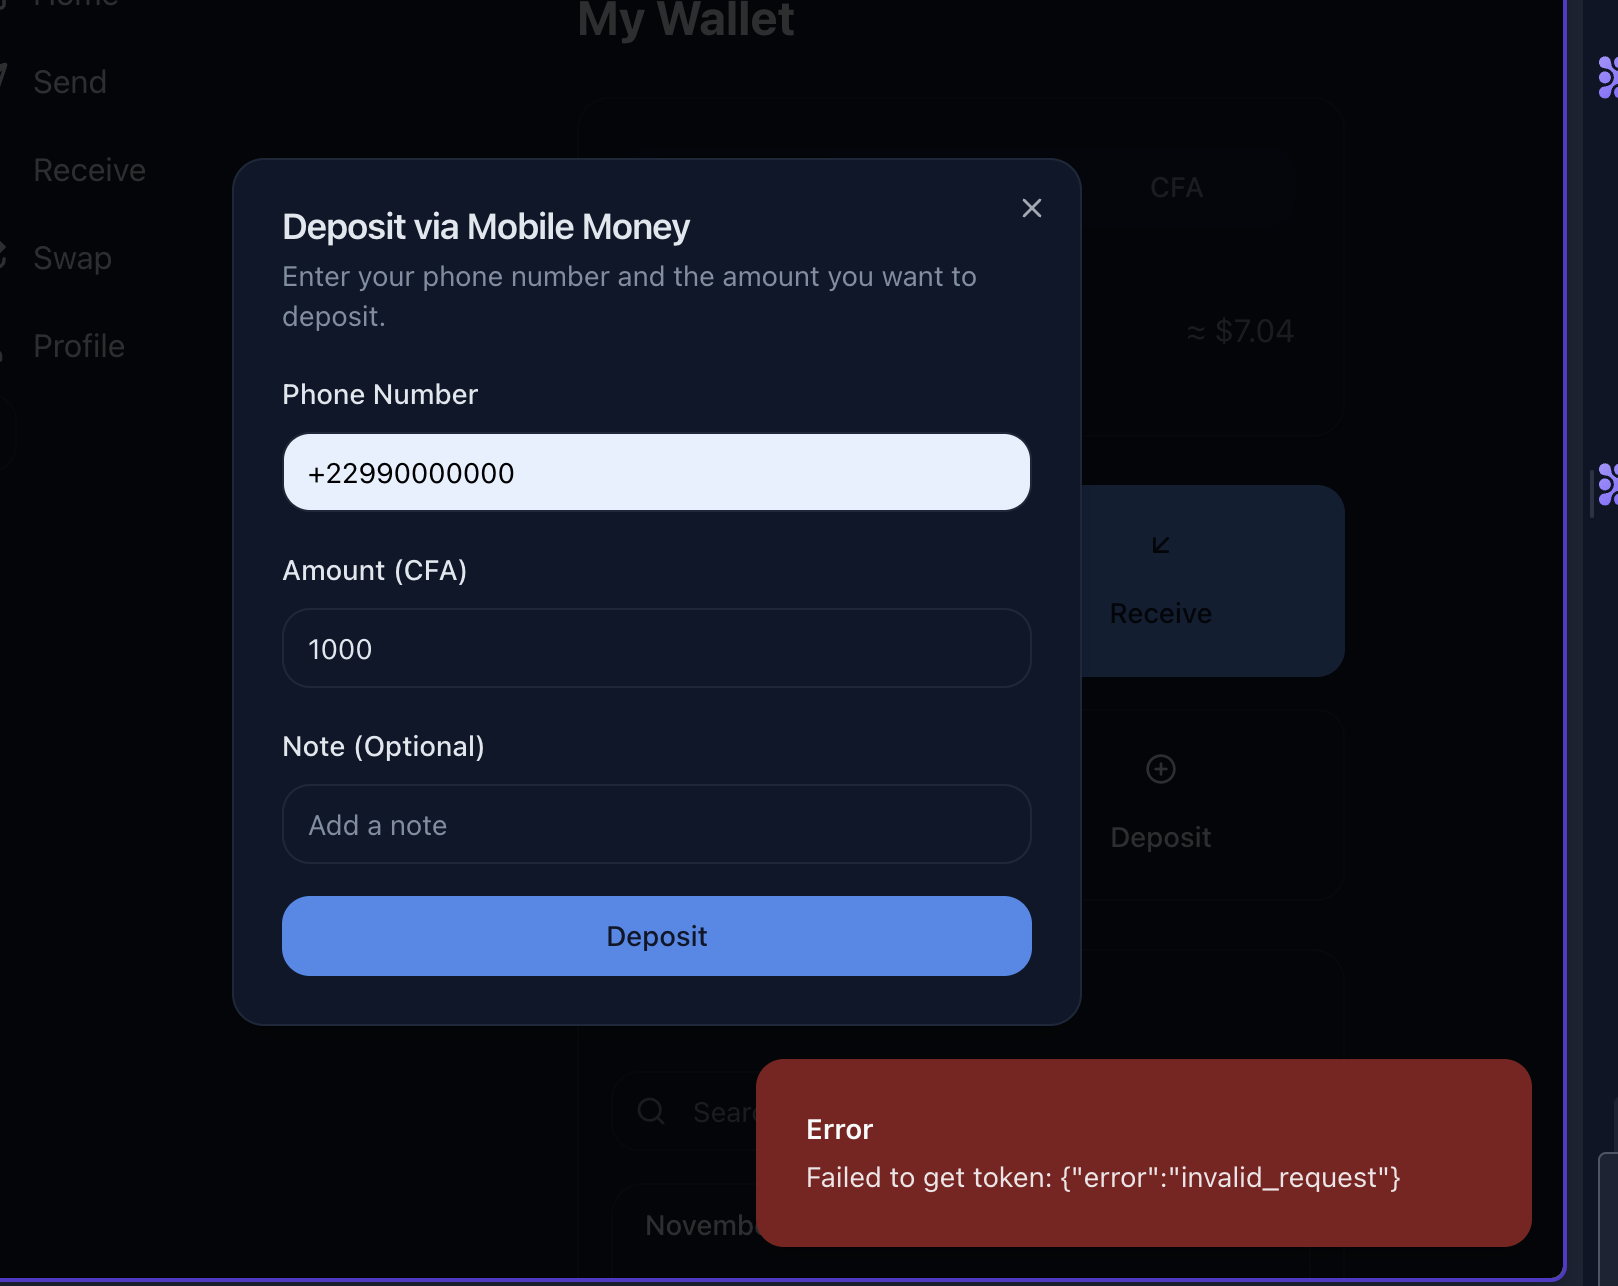
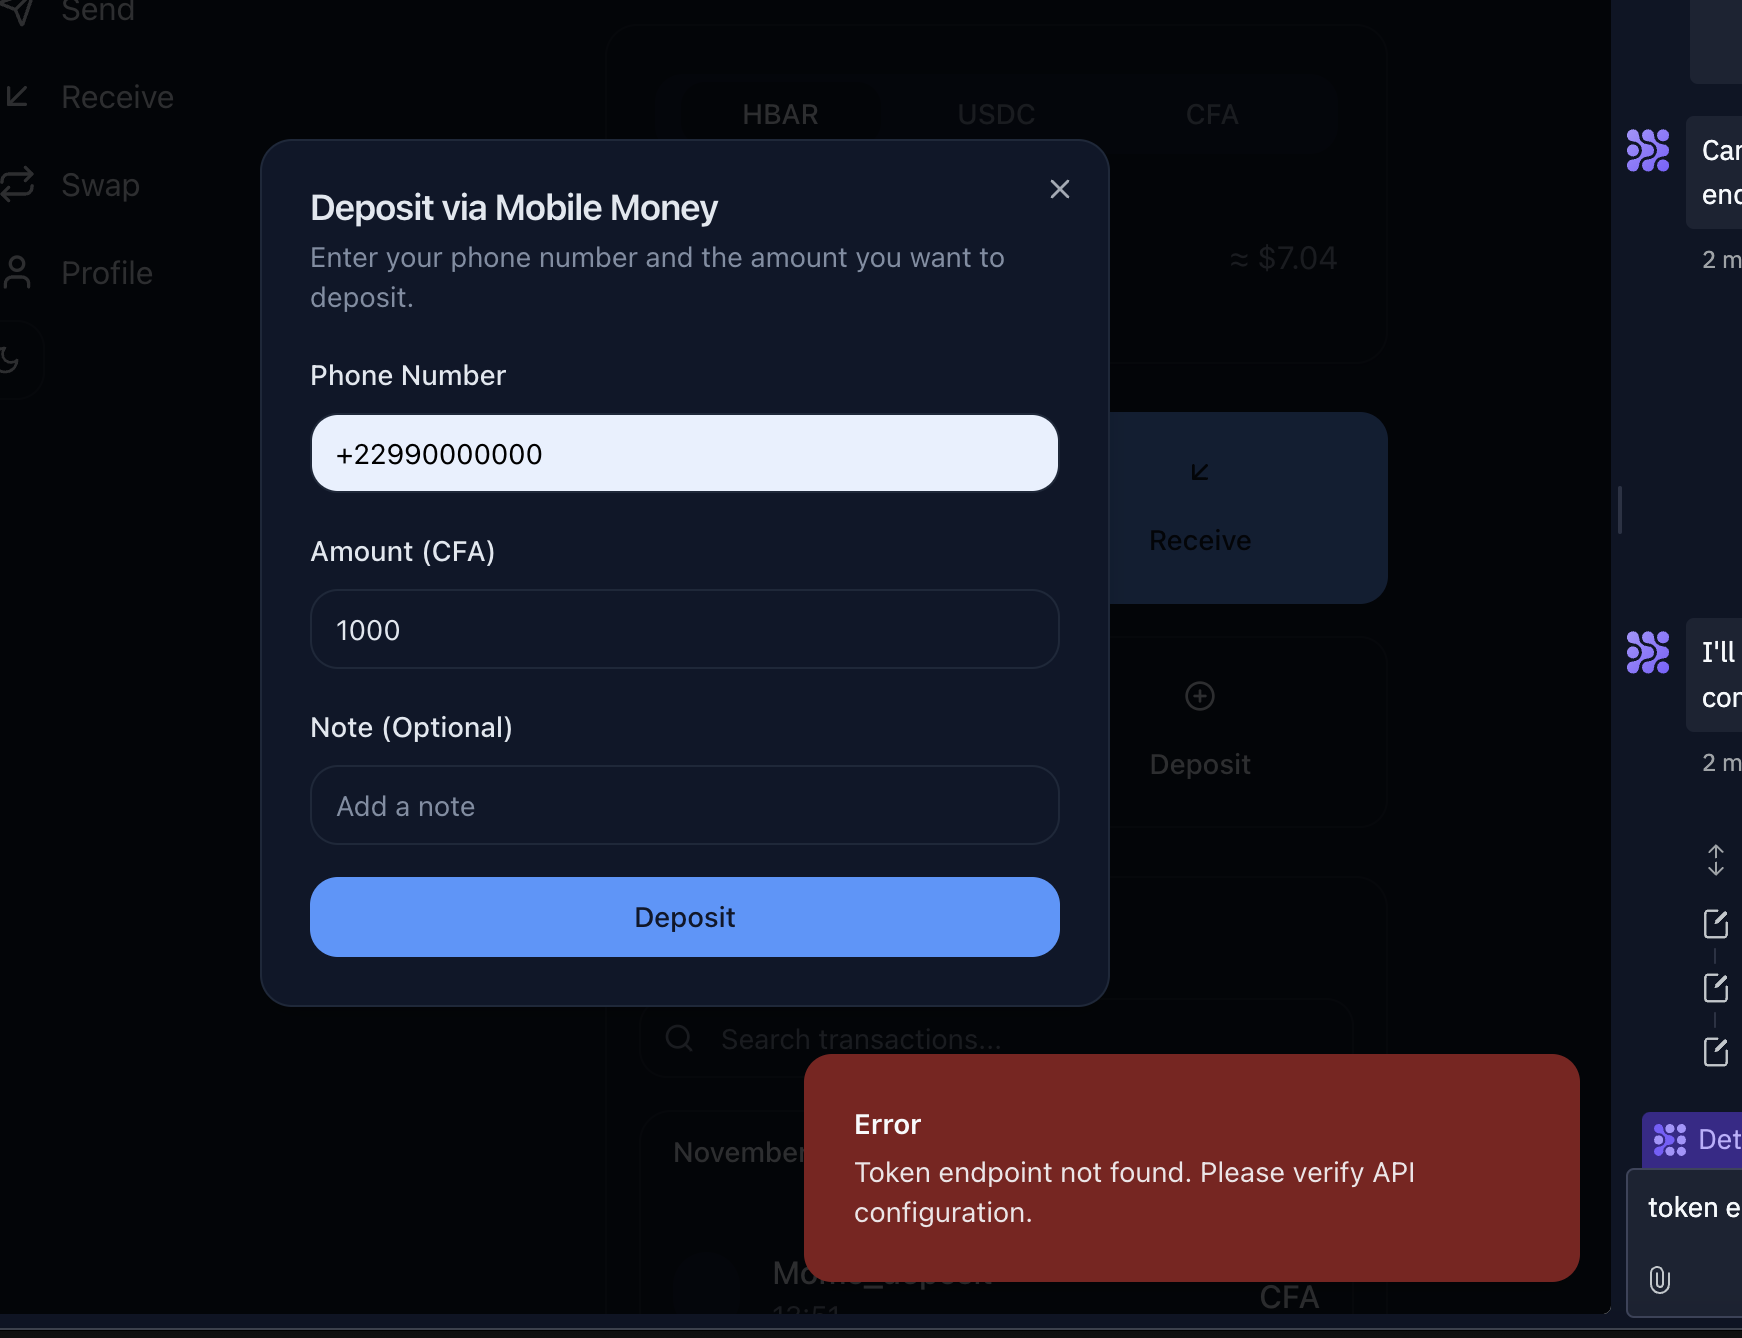
Agent query: Can you try initiating a mobile money deposit and check if the token endpoint error is resolved?

diff --git a/server/momo.ts b/server/momo.ts
@@ -15,10 +15,10 @@ const agent = new https.Agent({
 
 const BASE_URL = 'https://sandbox.momodeveloper.mtn.com';
 const API_ENDPOINTS = {
-  token: `${BASE_URL}/collection/token`,
+  token: `${BASE_URL}/collection/v1_0/token`,
   apiUser: `${BASE_URL}/v1_0/apiuser`,
   requestToPay: `${BASE_URL}/collection/v1_0/requesttopay`,
-  disbursement: `${BASE_URL}/disbursement/v1_0/transfer`,
+  disbursement: `${BASE_URL}/disbursement/v1_0/transfer`
 };
 const TOKEN_VALIDITY_DURATION = 3600; // 1 hour in seconds
 
@@ -185,13 +185,28 @@ export class MoMoAPI {
         throw new MoMoError(`Failed to get API user details: ${error}`, response.status);
       }
 
-      return response.json();
+      return response.json() as Promise<ApiUserResponse>;
     } catch (error) {
       if (error instanceof MoMoError) {
         throw error;
       }
       throw new MoMoError(`Failed to get API user details: ${error instanceof Error ? error.message : 'Unknown error'}`);
     }
+  }
+
+  /**
+   * Get OAuth token with retry logic
+   */
+  private async getTokenWithRetry(retries = 3): Promise<string> {
+    for (let attempt = 1; attempt <= retries; attempt++) {
+      try {
+        return await this.getToken();
+      } catch (error) {
+        if (attempt === retries) throw error;
+        await new Promise(resolve => setTimeout(resolve, 1000 * attempt));
+      }
+    }
+    throw new Error('Failed to get token after retries');
   }
 
   /**
@@ -208,7 +223,7 @@ export class MoMoAPI {
 
     try {
       console.log('Requesting new access token...');
-      console.log('Request URL:', API_ENDPOINTS.token);
+      console.log('Making token request to:', API_ENDPOINTS.token);
       
       const auth = Buffer.from(`${this.apiUser}:${this.apiKey}`).toString('base64');
       // Log authorization header format without credentials
@@ -220,9 +235,7 @@ export class MoMoAPI {
         headers: {
           'Authorization': `Basic ${auth}`,
           'Ocp-Apim-Subscription-Key': this.subscriptionKey,
-          'X-Target-Environment': 'sandbox',
-          'Content-Type': 'application/json',
-          'Cache-Control': 'no-cache'
+          'X-Target-Environment': 'sandbox'
         }
       });
 
@@ -280,7 +293,7 @@ export class MoMoAPI {
         }
       }
 
-      const data: TokenResponse = await response.json();
+      const data = await response.json() as TokenResponse;
       console.log('Token request successful, expires in:', data.expires_in, 'seconds');
       
       this.accessToken = data.access_token;
